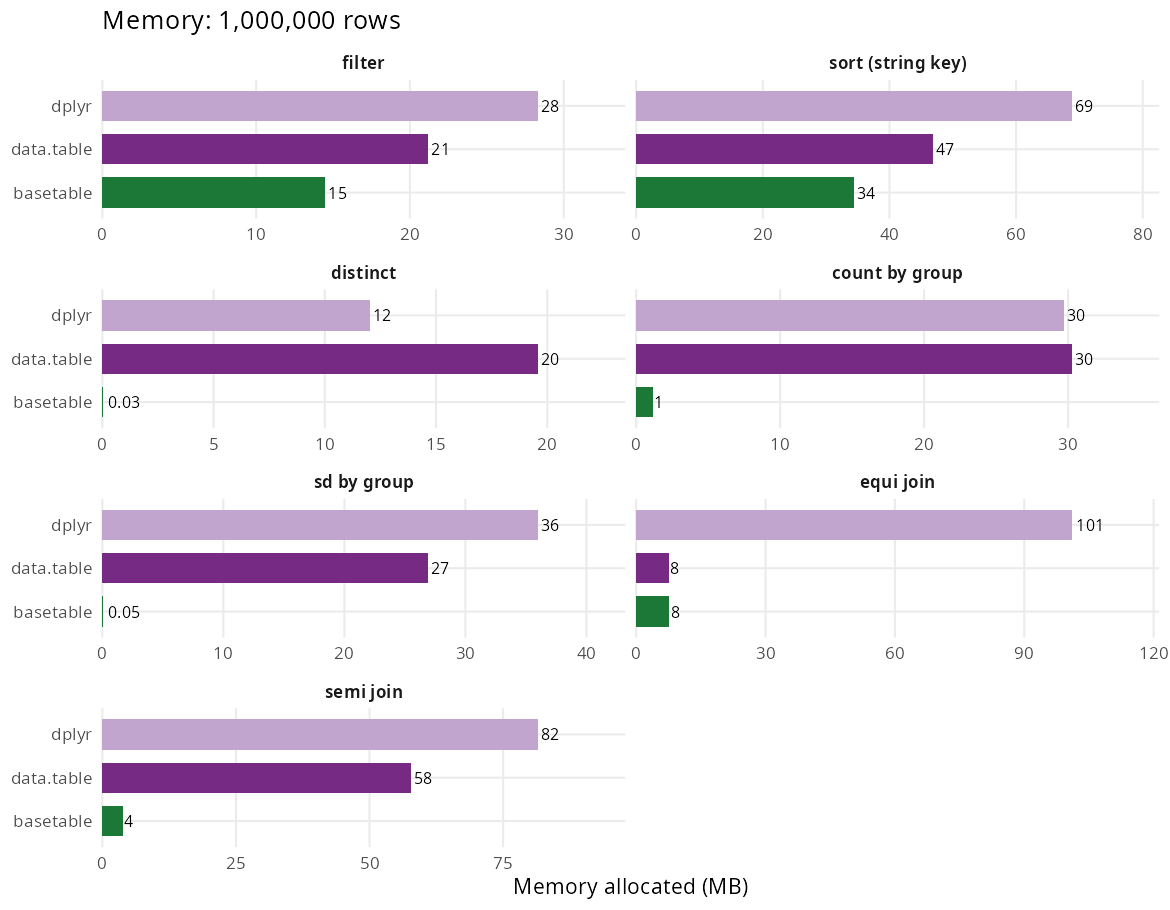
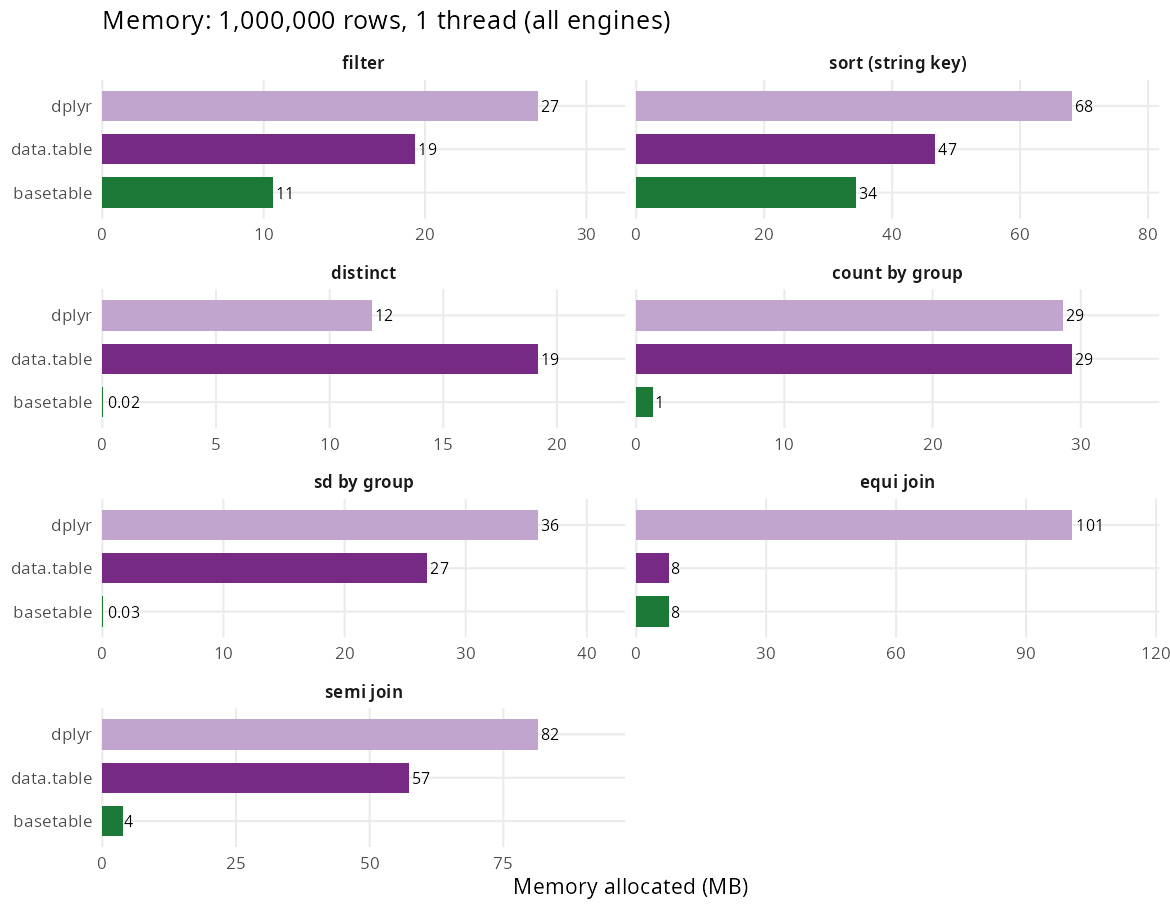
Use single-thread benchmark figures

diff --git a/inst/benchmarks/benchmark-results.md b/inst/benchmarks/benchmark-results.md
@@ -4,22 +4,22 @@
 
 | Operation | basetable | data.table | dplyr | basetable mem | data.table mem | dplyr mem |
 | --- | ---: | ---: | ---: | ---: | ---: | ---: |
-| filter | 7 ms | 10 ms | 10 ms | 14.51 MB | 21.19 MB | 28.34 MB |
-| sort (string key) | 58 ms | 44 ms | 102 ms | 34.37 MB | 46.85 MB | 68.83 MB |
-| distinct | 5 ms | 8 ms | 13 ms | 0.03 MB | 19.59 MB | 12.02 MB |
-| count by group | 23 ms | 40 ms | 738 ms | 1.16 MB | 30.27 MB | 29.72 MB |
-| sd by group | 10 ms | 16 ms | 42 ms | 0.05 MB | 26.91 MB | 36.02 MB |
-| equi join | 16 ms | 15 ms | 66 ms | 7.64 MB | 7.63 MB | 101.08 MB |
-| semi join | 13 ms | 67 ms | 52 ms | 3.84 MB | 57.80 MB | 81.57 MB |
+| filter | 12 ms | 26 ms | 12 ms | 14.51 MB | 21.19 MB | 28.34 MB |
+| sort (string key) | 68 ms | 95 ms | 106 ms | 34.37 MB | 46.85 MB | 68.83 MB |
+| distinct | 4 ms | 37 ms | 9 ms | 0.03 MB | 19.59 MB | 12.02 MB |
+| count by group | 28 ms | 59 ms | 911 ms | 1.16 MB | 30.27 MB | 29.72 MB |
+| sd by group | 12 ms | 83 ms | 58 ms | 0.05 MB | 26.91 MB | 36.02 MB |
+| equi join | 19 ms | 19 ms | 74 ms | 7.64 MB | 7.63 MB | 101.08 MB |
+| semi join | 16 ms | 96 ms | 43 ms | 3.84 MB | 57.80 MB | 81.57 MB |
 
 ### Single thread (basetable and data.table pinned to 1)
 
 | Operation | basetable | data.table | dplyr | basetable mem | data.table mem | dplyr mem |
 | --- | ---: | ---: | ---: | ---: | ---: | ---: |
-| filter | 9 ms | 9 ms | 10 ms | 10.58 MB | 19.40 MB | 27.01 MB |
-| sort (string key) | 156 ms | 116 ms | 105 ms | 34.33 MB | 46.75 MB | 68.11 MB |
-| distinct | 5 ms | 18 ms | 7 ms | 0.02 MB | 19.18 MB | 11.85 MB |
-| count by group | 21 ms | 36 ms | 752 ms | 1.14 MB | 29.41 MB | 28.80 MB |
-| sd by group | 17 ms | 26 ms | 43 ms | 0.03 MB | 26.84 MB | 35.99 MB |
-| equi join | 17 ms | 17 ms | 78 ms | 7.63 MB | 7.63 MB | 100.60 MB |
-| semi join | 55 ms | 49 ms | 43 ms | 3.81 MB | 57.37 MB | 81.52 MB |
+| filter | 10 ms | 10 ms | 12 ms | 10.58 MB | 19.40 MB | 27.01 MB |
+| sort (string key) | 131 ms | 163 ms | 112 ms | 34.33 MB | 46.75 MB | 68.11 MB |
+| distinct | 5 ms | 19 ms | 7 ms | 0.02 MB | 19.18 MB | 11.85 MB |
+| count by group | 33 ms | 50 ms | 914 ms | 1.14 MB | 29.41 MB | 28.80 MB |
+| sd by group | 17 ms | 35 ms | 56 ms | 0.03 MB | 26.84 MB | 35.99 MB |
+| equi join | 22 ms | 25 ms | 86 ms | 7.63 MB | 7.63 MB | 100.60 MB |
+| semi join | 55 ms | 74 ms | 59 ms | 3.81 MB | 57.37 MB | 81.52 MB |
